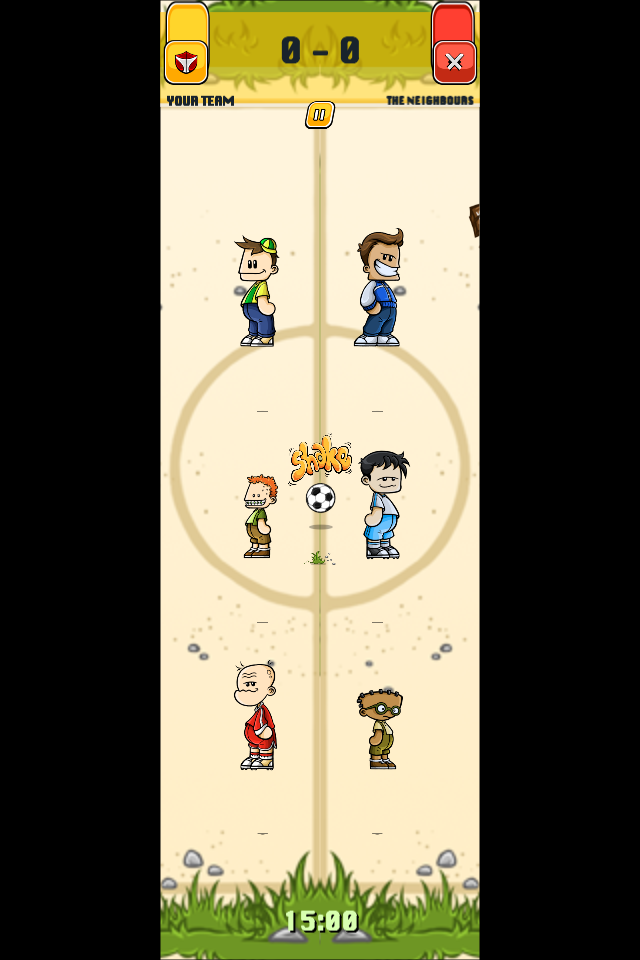
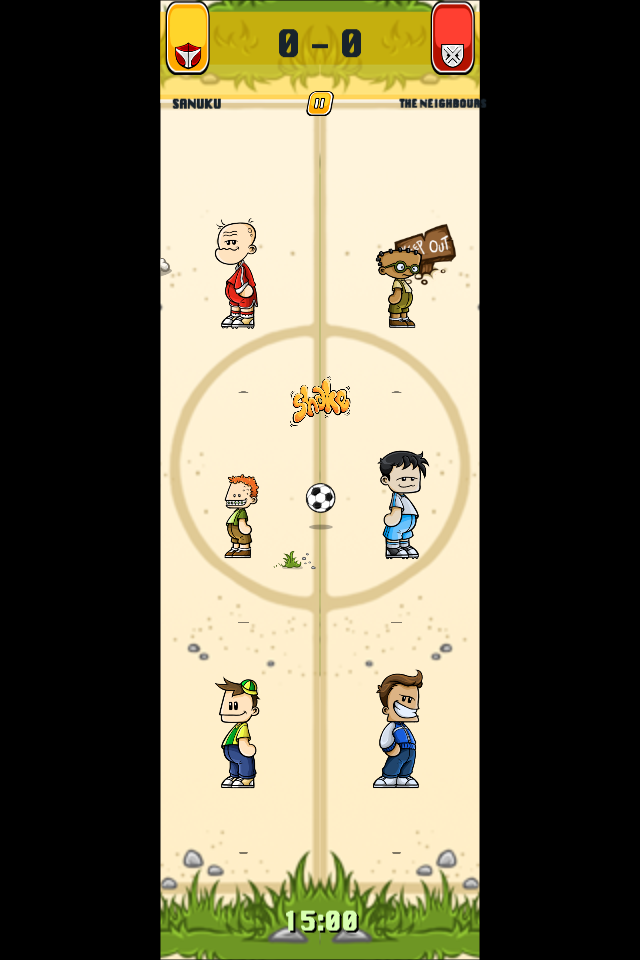
Fedeltà 1:1 tabellone segnapunti, decorazioni campo originali, cambio possesso e audio dadi

diff --git a/Assets/Scripts/DiceSoccerBootstrap.cs b/Assets/Scripts/DiceSoccerBootstrap.cs
@@ -139,6 +139,18 @@ namespace DiceSoccer
                 _shakePrompt.rectTransform.localScale = new Vector3(pulse, pulse, 1f);
             }
 
+            if (_homePlayers != null && _awayPlayers != null && !_inEncounterAnimation)
+            {
+                var bob = 1f + 0.025f * Mathf.Sin(Time.unscaledTime * 3.5f);
+                for (var i = 0; i < _homePlayers.Length; i++)
+                {
+                    if (_homePlayers[i] != null && _homePlayers[i].gameObject.activeSelf)
+                        _homePlayers[i].rectTransform.localScale = new Vector3(1f, bob, 1f);
+                    if (_awayPlayers[i] != null && _awayPlayers[i].gameObject.activeSelf)
+                        _awayPlayers[i].rectTransform.localScale = new Vector3(-1f, bob, 1f);
+                }
+            }
+
             DetectShake();
             DetectEdgeTap();
         }
@@ -673,20 +685,51 @@ namespace DiceSoccer
             rightImg.preserveAspect = false;
             rightImg.raycastTarget = false;
 
-            // Field decorations from Season0Field1 (matches authentic trailer):
+            // Field decorations (Season 0 authentic props):
+            // Center circle props:
             var signDeco = AddResourceImage("SignDeco", "Original/sprites/Season0Field1(1.1)/Object9",
                 _fieldPitchRoot, new Vector2(0.5f, 0.5f), new Vector2(0.5f, 0.5f));
-            signDeco.rectTransform.anchoredPosition = new Vector2(105f, 230f);
+            signDeco.rectTransform.anchoredPosition = new Vector2(105f, 225f);
             signDeco.rectTransform.sizeDelta = new Vector2(75f, 70f);
             signDeco.preserveAspect = true;
             signDeco.raycastTarget = false;
 
             var grassDeco = AddResourceImage("CenterGrassDeco", "Original/sprites/Season0Field1(1.1)/Object8",
                 _fieldPitchRoot, new Vector2(0.5f, 0.5f), new Vector2(0.5f, 0.5f));
-            grassDeco.rectTransform.anchoredPosition = new Vector2(0f, -70f);
-            grassDeco.rectTransform.sizeDelta = new Vector2(34f, 28f);
+            grassDeco.rectTransform.anchoredPosition = new Vector2(-25f, -80f);
+            grassDeco.rectTransform.sizeDelta = new Vector2(45f, 32f);
             grassDeco.preserveAspect = true;
             grassDeco.raycastTarget = false;
+
+            var boneDeco = AddResourceImage("CenterBoneDeco", "Original/sprites/Season0Field1(1.1)/Object3",
+                _fieldPitchRoot, new Vector2(0.5f, 0.5f), new Vector2(0.5f, 0.5f));
+            boneDeco.rectTransform.anchoredPosition = new Vector2(-170f, 210f);
+            boneDeco.rectTransform.sizeDelta = new Vector2(48f, 26f);
+            boneDeco.preserveAspect = true;
+            boneDeco.raycastTarget = false;
+
+            // Away goal area props (right side):
+            var awaySkullDeco = AddResourceImage("AwaySkullDeco", "Original/sprites/Season0Field1(1.1)/Object11",
+                _fieldPitchRoot, new Vector2(0.5f, 0.5f), new Vector2(0.5f, 0.5f));
+            awaySkullDeco.rectTransform.anchoredPosition = new Vector2(570f, -40f);
+            awaySkullDeco.rectTransform.sizeDelta = new Vector2(40f, 30f);
+            awaySkullDeco.preserveAspect = true;
+            awaySkullDeco.raycastTarget = false;
+
+            // Home goal area props (left side):
+            var homeShoeDeco = AddResourceImage("HomeShoeDeco", "Original/sprites/Season0Field1(1.1)/Object1",
+                _fieldPitchRoot, new Vector2(0.5f, 0.5f), new Vector2(0.5f, 0.5f));
+            homeShoeDeco.rectTransform.anchoredPosition = new Vector2(-510f, -190f);
+            homeShoeDeco.rectTransform.sizeDelta = new Vector2(52f, 34f);
+            homeShoeDeco.preserveAspect = true;
+            homeShoeDeco.raycastTarget = false;
+
+            var homeSkullDeco = AddResourceImage("HomeSkullDeco", "Original/sprites/Season0Field1(1.1)/Object11",
+                _fieldPitchRoot, new Vector2(0.5f, 0.5f), new Vector2(0.5f, 0.5f));
+            homeSkullDeco.rectTransform.anchoredPosition = new Vector2(-570f, -40f);
+            homeSkullDeco.rectTransform.sizeDelta = new Vector2(40f, 30f);
+            homeSkullDeco.preserveAspect = true;
+            homeSkullDeco.raycastTarget = false;
 
             // Soccer ball with shadow:
             var ballShadow = AddResourceImage("BallShadow", "Original/sprites/PlayerBody3/GameSoccerBallShadow",
@@ -728,10 +771,10 @@ namespace DiceSoccer
             aOutline.effectDistance = new Vector2(2.5f, -2.5f);
             _awayTotalText.enabled = false;
 
-            // Shake button & prompt in center:
+            // Shake button & prompt above soccer ball:
             _shakePrompt = AddResourceImage("ShakePrompt", "Original/sprites/Prompt1/Shake",
-                _field, new Vector2(0.5f, 0.52f), new Vector2(0.5f, 0.52f));
-            _shakePrompt.rectTransform.sizeDelta = new Vector2(175f, 100f);
+                _field, new Vector2(0.5f, 0.58f), new Vector2(0.5f, 0.58f));
+            _shakePrompt.rectTransform.sizeDelta = new Vector2(165f, 95f);
             _shakePrompt.preserveAspect = true;
             _shakePrompt.raycastTarget = true;
             var shakeBtn = _shakePrompt.gameObject.AddComponent<Button>();
@@ -761,54 +804,51 @@ namespace DiceSoccer
             // 2. Top HUD: Authentic Scoreboard (scoreboardBG sits at the very top):
             var scoreboard = AddResourceImage("MatchScoreboard",
                 "Original/images/scoreboardBG", _safeArea,
-                new Vector2(0f, 0.865f), new Vector2(1f, 1f));
+                new Vector2(0f, 0.870f), new Vector2(1f, 1f));
             scoreboard.preserveAspect = false;
             scoreboard.raycastTarget = false;
 
-            // Home Team Crest Box (Golden Frame with Shield):
-            var homeCrestBox = AddResourceImage("HomeCrestBox", "Original/images/CustomCrestBox", _safeArea,
-                new Vector2(0.08f, 0.935f), new Vector2(0.08f, 0.935f));
-            homeCrestBox.rectTransform.sizeDelta = new Vector2(48f, 48f);
-            homeCrestBox.preserveAspect = true;
-            homeCrestBox.raycastTarget = false;
-            var homeCrestShield = AddResourceImage("HomeShield", "Original/images/CustomCrest1", homeCrestBox.transform,
-                new Vector2(0.12f, 0.12f), new Vector2(0.88f, 0.88f));
+            // Home Team Crest Shield centered in the left yellow box of scoreboardBG:
+            var homeCrestShield = AddResourceImage("HomeShield", "Original/images/CustomCrest1", _safeArea,
+                new Vector2(0.086f, 0.942f), new Vector2(0.086f, 0.942f));
+            homeCrestShield.rectTransform.sizeDelta = new Vector2(42f, 42f);
             homeCrestShield.preserveAspect = true;
             homeCrestShield.raycastTarget = false;
 
-            var homeNameText = AddText("YOUR TEAM", _safeArea, 12, Ink,
-                new Vector2(0.01f, 0.875f), new Vector2(0.24f, 0.915f));
+            var homeNameText = AddText("SANUKU", _safeArea, 12, Ink,
+                new Vector2(0.01f, 0.872f), new Vector2(0.22f, 0.912f));
             homeNameText.fontStyle = FontStyle.Bold;
             homeNameText.alignment = TextAnchor.MiddleCenter;
 
-            // Away Team Crest Box (Red Box with Crest Design):
-            var awayCrestBox = AddResourceImage("AwayCrestBox", "Original/sprites/GoalAnimationSS4/EnemyCrest", _safeArea,
-                new Vector2(0.92f, 0.935f), new Vector2(0.92f, 0.935f));
-            awayCrestBox.rectTransform.sizeDelta = new Vector2(48f, 48f);
-            awayCrestBox.preserveAspect = true;
-            awayCrestBox.raycastTarget = false;
-            var awayCrestDesign = AddResourceImage("AwayDesign", "Original/sprites/EnemyCrest1/EnemyCrest1Design", awayCrestBox.transform,
-                new Vector2(0.15f, 0.15f), new Vector2(0.85f, 0.85f));
+            // Away Team Crest centered in the right red box of scoreboardBG:
+            var awayCrestBody = AddResourceImage("AwayCrestBody", "Original/sprites/EnemyCrest1/EnemyCrest1Body", _safeArea,
+                new Vector2(0.914f, 0.942f), new Vector2(0.914f, 0.942f));
+            awayCrestBody.rectTransform.sizeDelta = new Vector2(40f, 40f);
+            awayCrestBody.preserveAspect = true;
+            awayCrestBody.raycastTarget = false;
+
+            var awayCrestDesign = AddResourceImage("AwayDesign", "Original/sprites/EnemyCrest1/EnemyCrest1Design", awayCrestBody.transform,
+                new Vector2(0.12f, 0.12f), new Vector2(0.88f, 0.88f));
             awayCrestDesign.preserveAspect = true;
             awayCrestDesign.raycastTarget = false;
 
             var awayNameText = AddText(_currentFixture.teamName.ToUpperInvariant(), _safeArea, 10, Ink,
-                new Vector2(0.70f, 0.875f), new Vector2(0.99f, 0.915f));
+                new Vector2(0.78f, 0.872f), new Vector2(0.99f, 0.912f));
             awayNameText.fontStyle = FontStyle.Bold;
             awayNameText.alignment = TextAnchor.MiddleCenter;
             awayNameText.horizontalOverflow = HorizontalWrapMode.Overflow;
 
             // Center Scoreboard Scores:
-            _matchScore = AddText($"{_match.HomeScore} - {_match.AwayScore}", _safeArea, 34, Ink,
-                new Vector2(0.30f, 0.920f), new Vector2(0.70f, 0.975f));
+            _matchScore = AddText($"{_match.HomeScore} - {_match.AwayScore}", _safeArea, 36, Ink,
+                new Vector2(0.35f, 0.925f), new Vector2(0.65f, 0.985f));
             _matchScore.fontStyle = FontStyle.Bold;
             _matchScore.alignment = TextAnchor.MiddleCenter;
             _matchScore.horizontalOverflow = HorizontalWrapMode.Overflow;
 
-            // Pause button at center directly under score:
+            // Pause button at center directly docked under score:
             AddSpriteButton("Pause", "Original/images/PauseButton",
                 "Original/images/PauseButtonPressed", _safeArea,
-                new Vector2(0.50f, 0.880f), new Vector2(0.10f, 0.042f), ShowPauseMenu);
+                new Vector2(0.50f, 0.892f), new Vector2(0.09f, 0.052f), ShowPauseMenu);
 
             // 3. Digital Clock on the Bottom Grass:
             _matchClock = AddText(_match.ClockText(), _safeArea, 25, new Color32(216, 255, 176, 255),
@@ -2557,6 +2597,7 @@ namespace DiceSoccer
                 }
 
                 // 3. Tumble rolling dice animation (DiceRoll01..DiceRoll13)
+                AudioManager.Instance.PlayDiceRoll();
                 for (var frame = 1; frame <= 13; frame++)
                 {
                     var rollSprite = GetUiSprite($"Original/sprites/PlayerBody3/DiceRoll{frame:00}");
@@ -2568,6 +2609,7 @@ namespace DiceSoccer
                 }
 
                 // 4. Settle dice on final faces
+                AudioManager.Instance.PlayTap();
                 var diceBaseSprite = GetUiSprite("Original/sprites/PlayerBody3/DiceRoll00");
                 for (var i = 0; i < homeFaces.Length; i++)
                 {
@@ -2584,6 +2626,7 @@ namespace DiceSoccer
             var oldHomeScore = _match.HomeScore;
             var oldAwayScore = _match.AwayScore;
             var oldLocation = _match.Location;
+            var oldPossession = _match.Possession;
 
             var report = _match.CompleteEncounter();
             report = CompactMatchReport(report, _match.ClockText());
@@ -2649,6 +2692,10 @@ namespace DiceSoccer
             else if (report.Contains("Through Pass"))
             {
                 yield return StartCoroutine(PlayThroughPassAnimation(_match.Possession == 0));
+            }
+            else if (oldPossession != _match.Possession)
+            {
+                yield return StartCoroutine(PlayPossessionChangeAnimation(_match.Possession == 0));
             }
             else
             {
@@ -2920,6 +2967,7 @@ namespace DiceSoccer
             if (_overlayContainer == null) yield break;
             AudioManager.Instance.PlayCrowdApplause();
             AudioManager.Instance.PlayWhistle();
+            StartCoroutine(PlayPoofAtPosition(new Vector2(0.5f, 0.55f)));
             var banner = AddResourceImage("TieBanner",
                 "Original/sprites/Prompt1/Tie", _overlayContainer,
                 new Vector2(0.5f, 0.55f), new Vector2(0.5f, 0.55f));
@@ -2966,6 +3014,48 @@ namespace DiceSoccer
                 yield return null;
             }
             yield return new WaitForSeconds(0.35f);
+            if (banner != null) Destroy(banner.gameObject);
+        }
+
+        private IEnumerator PlayPossessionChangeAnimation(bool homeGainedPossession)
+        {
+            if (_overlayContainer == null) yield break;
+            var path = homeGainedPossession
+                ? "Original/sprites/Prompt1/PossessionChangeGreen"
+                : "Original/sprites/Prompt1/PossessionChangeRed";
+            var banner = AddResourceImage("PossessionChangeBanner", path, _overlayContainer,
+                new Vector2(0.5f, 0.55f), new Vector2(0.5f, 0.55f));
+            banner.rectTransform.sizeDelta = new Vector2(440f, 240f);
+            banner.preserveAspect = true;
+
+            if (homeGainedPossession)
+                AudioManager.Instance.PlayWhistle();
+            else
+                AudioManager.Instance.PlayDisappoint();
+
+            var elapsed = 0f;
+            while (elapsed < 0.25f)
+            {
+                elapsed += Time.deltaTime;
+                banner.rectTransform.localScale = Vector3.Lerp(Vector3.zero, Vector3.one * 1.05f, elapsed / 0.25f);
+                yield return null;
+            }
+            elapsed = 0f;
+            while (elapsed < 0.10f)
+            {
+                elapsed += Time.deltaTime;
+                banner.rectTransform.localScale = Vector3.Lerp(Vector3.one * 1.05f, Vector3.one, elapsed / 0.10f);
+                yield return null;
+            }
+            yield return new WaitForSeconds(0.40f);
+            elapsed = 0f;
+            var col = banner.color;
+            while (elapsed < 0.25f)
+            {
+                elapsed += Time.deltaTime;
+                banner.color = new Color(col.r, col.g, col.b, 1f - elapsed / 0.25f);
+                yield return null;
+            }
             if (banner != null) Destroy(banner.gameObject);
         }
 
